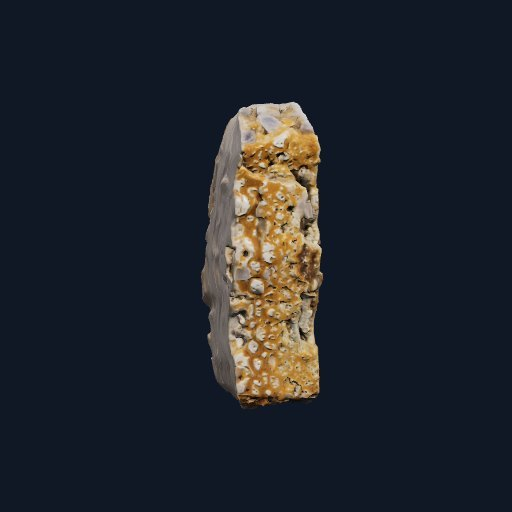
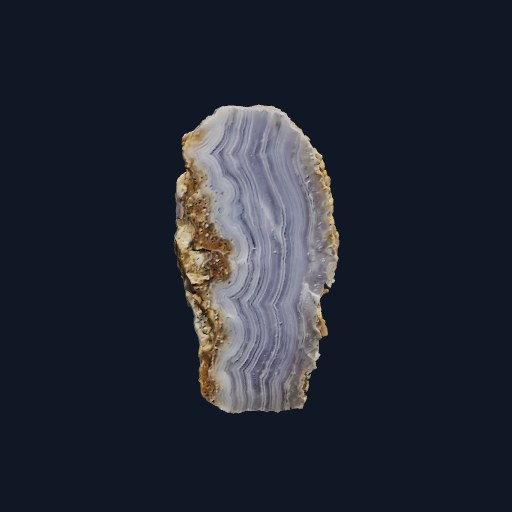
Scanned stones face forward: agate banded face + quantum quattro rings
- Re-rendered calm + wellness thumbnails at their true front-facing
  angles (banded blue agate face; ringed malachite face)
- Viewer opens each scan at the same orientation (per-stone yaw/pitch)
- tools/thumbs.html gains a single-stone mode (?only=slug&yaw=&pitch=)
  and renders can now be saved straight to disk via a local save server

Changed region(s): [[0.3125, 0.1875, 0.6875, 0.8125]]

diff --git a/gems/index.html b/gems/index.html
@@ -127,11 +127,11 @@ import {GLTFLoader} from '../assets/jsm/loaders/GLTFLoader.js';
    photo: front-facing product PNG (tilt-card viewer)
    scan:  assets/gems/<slug>.glb (WebGL viewer + thumb jpg) ---- */
 const GEMS=[
- {slug:'calm',        name:'Agate Geode Slice', cat:'Calm',      color:0xA9C0DA, price:'$48.88', scan:true,
+ {slug:'calm',        name:'Agate Geode Slice', cat:'Calm',      color:0xA9C0DA, price:'$48.88', scan:true, yaw:-1.35, pitch:0.05,
   desc:'A real Energy Muse stone, scanned in 3D. Banded, slow-formed agate — a soft visual pause for desk or shelf.'},
  {slug:'protection',  name:'Black Tourmaline',  cat:'Protection',color:0x5A6472, price:'$8.88', scan:true,
   desc:'The classic boundary stone, scanned in 3D — striated black crystal for entries, desks and thresholds.'},
- {slug:'wellness',    name:'Quantum Quattro Crystal', cat:'Wellness', color:0x3EAFA5, price:'$229.88', scan:true,
+ {slug:'wellness',    name:'Quantum Quattro Crystal', cat:'Wellness', color:0x3EAFA5, price:'$229.88', scan:true, yaw:4.2, pitch:0.15,
   desc:'A real Energy Muse specimen, scanned in 3D — shattuckite, dioptase, malachite and smoky quartz in quartz.'},
  {slug:'spirituality',name:'Amethyst Cluster',  cat:'Spirituality', color:0x8656B8, price:'$34.88', photo:true,
   desc:'Natural amethyst points on a copper stand — the classic meditative crystal for clarity and quiet attention.'},
@@ -247,7 +247,7 @@ function openViewer(g){
     mode='gl';canvas.classList.remove('off');tiltpad.classList.add('off');
     document.getElementById('vhint').textContent='Drag to rotate';
     document.getElementById('vsrc').textContent='3D scan of the actual stone.';
-    rx=-0.15;ry=0.6;vx=vy=0;
+    rx=(g.pitch!==undefined?g.pitch:-0.15);ry=(g.yaw!==undefined?g.yaw:0.6);vx=vy=0;
     scene.remove(holder);holder=new THREE.Group();scene.add(holder);
     vload.classList.add('on');
     loader.load(`../assets/gems/${g.slug}.glb`,gltf=>{

diff --git a/tools/thumbs.html b/tools/thumbs.html
@@ -107,7 +107,19 @@ function loadModel(slug){
 
 const sheet=document.getElementById('sheet');
 const ctx=sheet.getContext('2d');
+const Q=new URLSearchParams(location.search);
+const ONLY=Q.get('only'),YAW=parseFloat(Q.get('yaw')||'0.5'),PITCH=parseFloat(Q.get('pitch')||'-0.05');
 (async()=>{
+  if(ONLY){
+    scene.remove(holder);holder=new THREE.Group();scene.add(holder);
+    const m=await loadModel(ONLY);
+    holder.add(m);holder.rotation.y=YAW;holder.rotation.x=PITCH;
+    renderer.render(scene,camera);
+    sheet.width=512;sheet.height=512;
+    ctx.drawImage(rcan,0,0,512,512);
+    window.__sprite=sheet.toDataURL('image/jpeg',0.88);
+    window.__ready=true;return;
+  }
   for(let i=0;i<ORDER.length;i++){
     const slug=ORDER[i];
     scene.remove(holder);holder=new THREE.Group();scene.add(holder);
